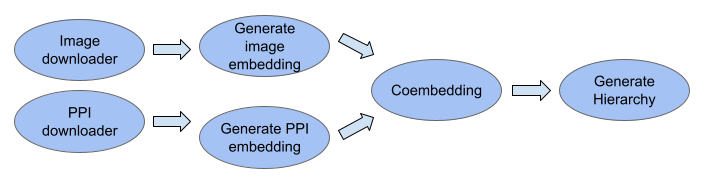
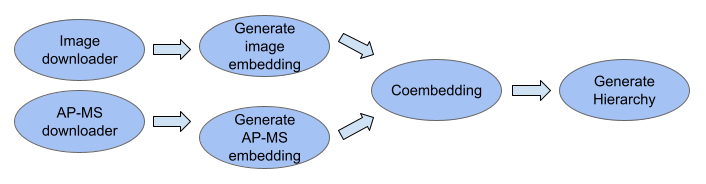
updated text and image based on feedback from Trey

Changed region(s): [[0.3116, 0.625, 0.4363, 0.8967], [0.0623, 0.5707, 0.1558, 0.6522]]

diff --git a/docs/index.rst b/docs/index.rst
@@ -15,7 +15,7 @@ The Cell Maps Pipeline takes `ImmunoFluorescent <https://en.wikipedia.org/wiki/I
 the `Human Protein Atlas <https://www.proteinatlas.org>`__ along with
 `Affinity Purification Mass Spectrometry <https://www.thermofisher.com/us/en/home/industrial/mass-spectrometry/proteomics-protein-mass-spectrometry/proteomics-protein-mass-spectrometry-workflows/protein-structure-analysis-mass-spectrometry/affinity-mass-spectrometry.html>`__
 data from one or more sources, converts them into embeddings that
-are then coembedded and converted into a Protein to Protein Interaction network from which a hierarchical
+are then coembedded and converted into an integrated interaction network from which a hierarchical
 model is derived.
 
 The pipeline invokes six tools that each create an output directory where results are
@@ -27,6 +27,8 @@ Overview of Cell Maps Pipeline
 .. image:: images/pipeline_overview.png
   :alt: Overview of Cell Maps Pipeline which shows PPI and image download followed by embedding, coembedding, and finally hierarchy generation
 
+..
+    The pipeline_overview.png image is from this google doc: https://docs.google.com/drawings/d/1pAqQkmg8hRh7ySkgu5PVY7Hu4pwMyejAzAYzGge0ilU/edit
 
 
 * Free software: MIT license
